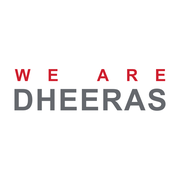
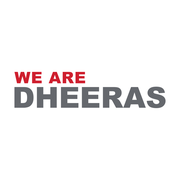
The wordmark is set in Black, ranged left over the name
The icons were set in Arial Bold with WE ARE tracked out until it spanned
DHEERAS exactly, which read as one grey block. The chapter sets it
heavier and tighter, with WE ARE the shorter line sitting over the start
of the name, so that is what the script now draws: Arial Black, DHEERAS
at no extra letterspacing, the two lines ranged left and close together.

The script also takes a file now — `python scripts/make-icons.py
<artwork.png>` — which flattens it onto white, turns that white back into
transparency and trims to the ink, so supplied artwork is fitted by its
mark rather than by whatever margins the file was saved with. Run with no
argument it still sets the wordmark from type, byte for byte as before.

The browser tab keeps the red D on its own, type-set even when the lockup
comes from a file: at 16px the two lines are a smudge, and cutting one
letter back out of supplied artwork would have to guess where it ends.

Changed region(s): [[0.0833, 0.3611, 0.9444, 0.6389]]

diff --git a/scripts/make-icons.py b/scripts/make-icons.py
@@ -1,21 +1,30 @@
 """
-Builds the app logo and icons. The wordmark is set from type rather than drawn
-in a graphics tool, so it is reproducible: edit the constants below and re-run.
-Needs Python 3 with Pillow, and a bold grotesque (Arial Bold ships with Windows
-and macOS; Liberation Sans Bold is the Linux stand-in):
+Builds the app logo and icons. Needs Python 3 with Pillow:
 
     python -m pip install pillow
-    python scripts/make-icons.py
+    python scripts/make-icons.py                       # set the wordmark from type
+    python scripts/make-icons.py docs/brand/we-are-dheeras.png   # use that artwork
 
-The lockup is WE ARE over DHEERAS, in the chapter's two colours. DHEERAS is set
-larger because it is the name; WE ARE is tracked out to the same width so the
-two lines read as one block. docs/brand/ keeps the retired BNI artwork, which
-nothing builds from any more.
+With no argument the wordmark is set from type rather than drawn in a graphics
+tool, so it is reproducible: edit the constants below and re-run. That needs a
+bold grotesque (Arial Bold ships with Windows and macOS; Liberation Sans Bold is
+the Linux stand-in).
+
+Given a file, that artwork becomes the lockup instead, and the type-setting is
+skipped. Supply it large and on white (or transparent) with the mark centred —
+the white backing is dropped and the margins are measured from the ink, so any
+whitespace around the edges of the file doesn't matter.
+
+Either way the lockup is WE ARE over DHEERAS, in the chapter's two colours.
+DHEERAS is set larger because it is the name; WE ARE is tracked out to the same
+width so the two lines read as one block. docs/brand/ keeps the retired BNI
+artwork, which nothing builds from any more.
 """
 
+import sys
 from pathlib import Path
 
-from PIL import Image, ImageDraw, ImageFont
+from PIL import Image, ImageChops, ImageDraw, ImageFont
 
 RED = (206, 31, 46, 255)  # the BNI red carried over from the old mark
 DARK = (101, 104, 109, 255)  # the dark the old DHEERAS was set in
@@ -23,11 +32,23 @@ WHITE, CLEAR = (255, 255, 255, 255), (0, 0, 0, 0)
 
 TOP, BOTTOM = "WE ARE", "DHEERAS"
 BOTTOM_SIZE = 400  # everything else is a fraction of this, so one number scales the lockup
-TOP_RATIO = 0.56  # WE ARE is a little over half the height of the name
-BOTTOM_TRACKING = 0.05  # of the font size; the old DHEERAS was letterspaced too
-GAP_RATIO = 0.34  # between the two lines, as a fraction of the DHEERAS cap height
+TOP_RATIO = 0.55  # WE ARE is a little over half the height of the name
+# Both lines are set tight: the chapter's mark has DHEERAS almost touching, with
+# WE ARE only slightly opened up so the shorter line doesn't look cramped.
+BOTTOM_TRACKING = 0.0  # of the font size
+TOP_TRACKING = 0.03
+GAP_RATIO = 0.16  # between the two lines, as a fraction of the DHEERAS cap height
 
-FONTS = ["arialbd.ttf", "Arial Bold.ttf", "LiberationSans-Bold.ttf", "DejaVuSans-Bold.ttf"]
+# Black, not Bold: the mark is heavy, and at Bold the letters look underset
+# beside the weight the chapter uses on its banners.
+FONTS = [
+    "ariblk.ttf",
+    "Arial Black.ttf",
+    "Archivo-Black.ttf",
+    "LiberationSans-Bold.ttf",
+    "DejaVuSans-Bold.ttf",
+    "arialbd.ttf",
+]
 
 
 def load(size):
@@ -53,18 +74,54 @@ def line(text, font, fill, tracking):
 
 
 def wordmark():
-    """WE ARE over DHEERAS, centred, on transparent — the lockup everything uses."""
+    """
+    WE ARE over DHEERAS, ranged left, on transparent — the lockup everything uses.
+
+    Ranged left rather than centred, and each line set at its own natural width:
+    WE ARE is the shorter line and is meant to look it, sitting over the start of
+    the name the way it does on the chapter's banners. (It used to be tracked out
+    until it spanned DHEERAS exactly, which made the two lines one grey block.)
+    """
     bottom = line(BOTTOM, load(BOTTOM_SIZE), DARK, BOTTOM_SIZE * BOTTOM_TRACKING)
-    # WE ARE is set smaller, then tracked out until it spans the name exactly.
-    top_font = load(round(BOTTOM_SIZE * TOP_RATIO))
-    natural = sum(top_font.getlength(c) for c in TOP)
-    top = line(TOP, top_font, RED, (bottom.width - natural) / (len(TOP) - 1))
+    top_size = round(BOTTOM_SIZE * TOP_RATIO)
+    top = line(TOP, load(top_size), RED, top_size * TOP_TRACKING)
     gap = round(bottom.height * GAP_RATIO)
 
     im = Image.new("RGBA", (max(top.width, bottom.width), top.height + gap + bottom.height), CLEAR)
-    im.alpha_composite(top, ((im.width - top.width) // 2, 0))
-    im.alpha_composite(bottom, ((im.width - bottom.width) // 2, top.height + gap))
+    im.alpha_composite(top, (0, 0))
+    im.alpha_composite(bottom, (0, top.height + gap))
     return im
+
+
+def artwork(path):
+    """
+    A lockup drawn elsewhere, read in place of the type-set one.
+
+    The file is flattened onto white first, so artwork saved with transparency
+    and artwork saved on a white card are read the same way. That white is the
+    backing rather than part of the mark, so it is turned back into
+    transparency: the lockup can then sit on any colour, and `square()` below
+    measures its margins from the ink instead of from the file's edges.
+
+    White is dropped on a short ramp rather than a hard cut, which keeps the
+    soft edge of the letters. Anything printed in a near-white tint would go
+    with it — this is a two-colour wordmark, so there is nothing up there.
+    """
+    source = Image.open(path).convert("RGBA")
+    card = Image.new("RGBA", source.size, WHITE)
+    card.alpha_composite(source)
+
+    r, g, b, _ = card.split()
+    # The lightest ink still reads as ink on every channel, so the darkest
+    # channel is what says "something is here".
+    darkest = ImageChops.darker(ImageChops.darker(r, g), b)
+    alpha = darkest.point(lambda v: 255 if v <= 230 else 0 if v >= 247 else round(255 * (247 - v) / 17))
+    card.putalpha(alpha)
+
+    box = alpha.getbbox()
+    if box is None:
+        raise SystemExit(f"{path} looks blank — nothing but white in it.")
+    return card.crop(box)
 
 
 def fit(im, max_w, max_h):
@@ -79,9 +136,15 @@ def square(im, size, frac, bg):
     return canvas
 
 
-logo = wordmark()
+source = sys.argv[1] if len(sys.argv) > 1 else None
+if source and not Path(source).is_file():
+    raise SystemExit(f"No such file: {source}")
+logo = artwork(source) if source else wordmark()
+print(f"Lockup: {source}" if source else "Lockup: set from type")
 # At 16px the two lines are a smudge, so the browser tab gets the chapter's
-# initial on its own — the smallest thing that still reads as DHEERAS.
+# initial on its own — the smallest thing that still reads as DHEERAS. It stays
+# type-set even when the lockup comes from a file: cutting one letter back out
+# of supplied artwork guesses where that letter ends.
 mark = line("D", load(512), RED, 0)
 
 Path("src/assets").mkdir(parents=True, exist_ok=True)
